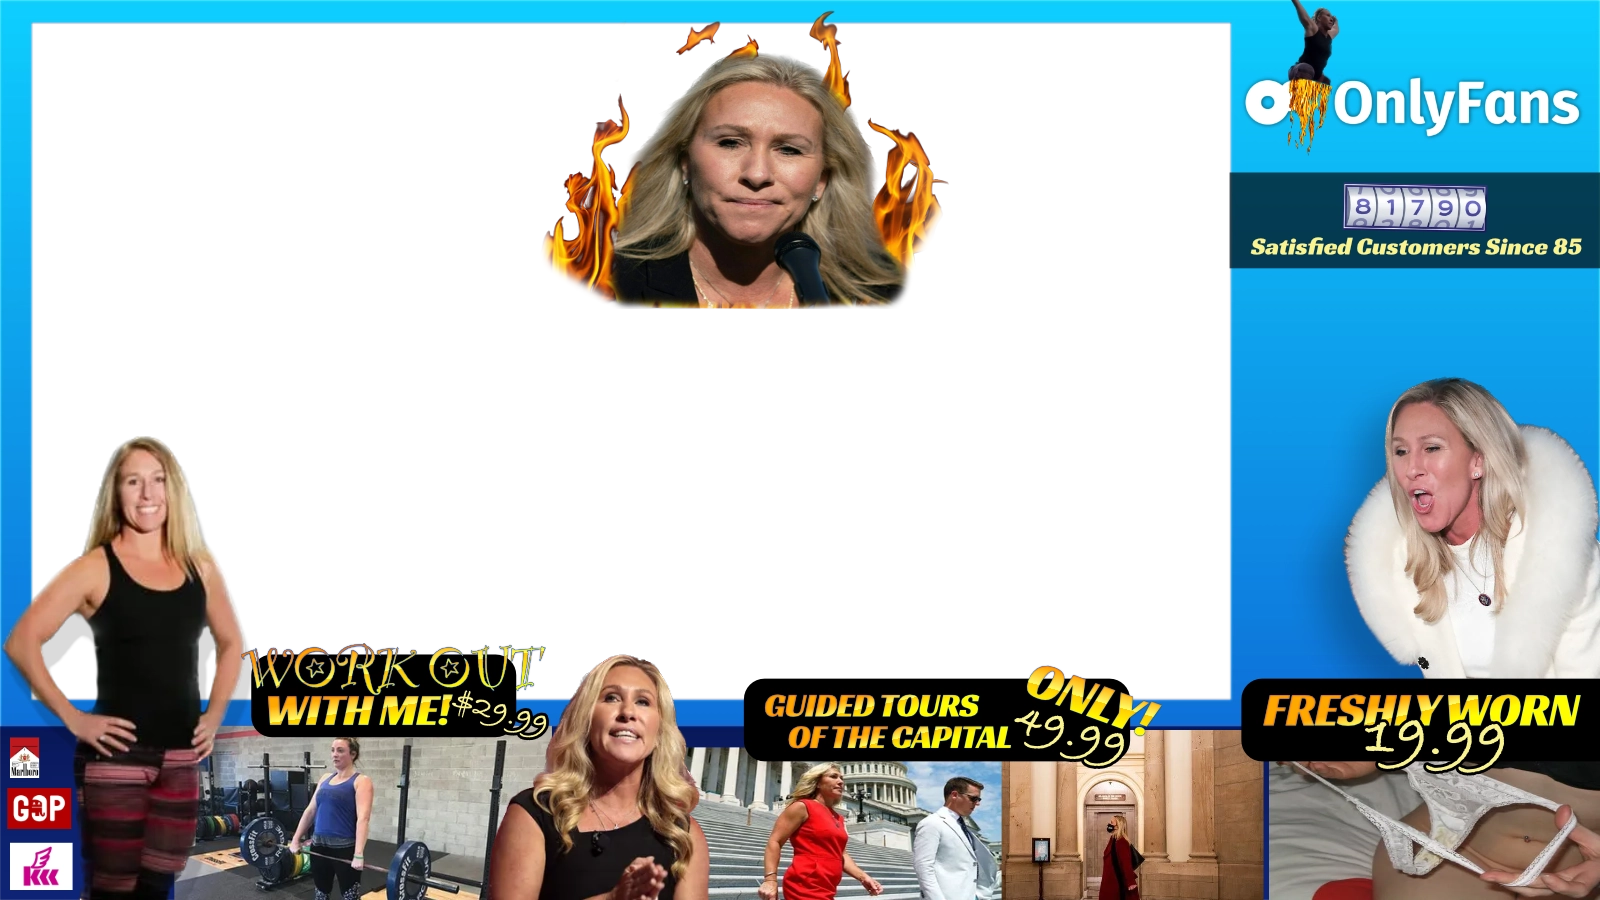
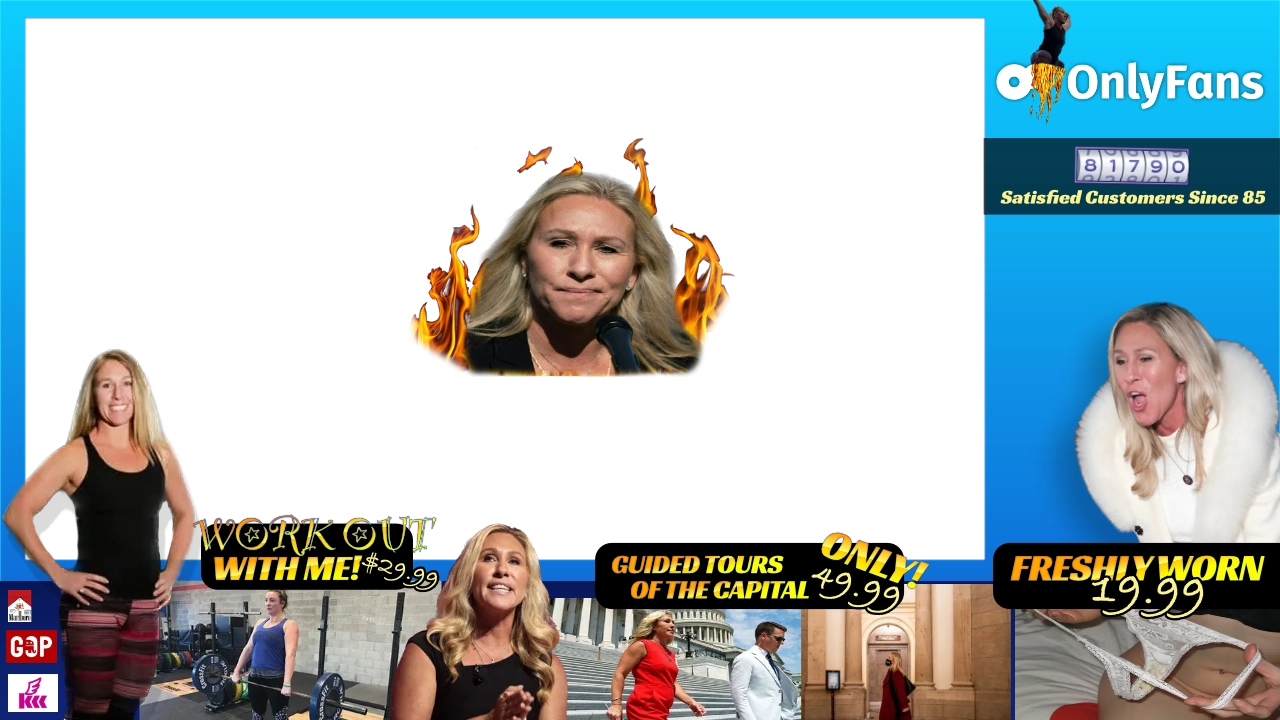
tweaks

diff --git a/src/templates/index-page.js b/src/templates/index-page.js
@@ -468,7 +468,7 @@ style={{position:'absolute', top:'0', zIndex:'0', width:'100vw', minHeight:'300p
     
       {/* <img className="homepage-bg" src={iconimage} width="250px" height="150px" alt="MemeGenes" style={{ width:'100%', maxWidth:'150px',maxHeight:'100px', margin:'80px auto 0 auto', filter:'drop-shadow(2px 2px 2px #000)', background:'transparent !important', position:'relative', top:''}} /> */}
 
-      <div className="panel" style={{position:'relative', right:'0', top:'10%', display:'flex', flexDirection:'column', justifyContent:'center', fontSize:'clamp(1.3rem, 2vw, 3rem)', background:'rgba(0,0,0,0.50)', textAlign:'center', padding:'2vh 5vw', borderRadius:'12px', maxWidth:'80vw' }}>
+      <div className="panel" style={{position:'relative', right:'0', top:'20vh', display:'flex', flexDirection:'column', justifyContent:'center', fontSize:'clamp(1.3rem, 2vw, 3rem)', background:'rgba(0,0,0,0.50)', textAlign:'center', padding:'2vh 5vw', borderRadius:'12px', maxWidth:'80vw' }}>
         Click to play
       
         <ImPlay style={{fontSize:'200%', margin:'0 auto'}} />

diff --git a/src/assets/scss/global.scss b/src/assets/scss/global.scss
@@ -57,7 +57,7 @@ margin:20vh !important;
 
 body.homepage .wrap-element iframe, body.blogpost .wrap-element iframe {
 	position: absolute;
-	top: -10px;
+	top: 0;
 	left: 0;
 	// height:280px !important;
 	width:100vw !important;
@@ -833,7 +833,6 @@ flex-direction: column;
 	}
 
 	 .spotlight:hover{
-		background:rgba(0, 0, 0, .6);
 		color:#fff !important;
 		fill:#fff !important;
 		backdrop-filter: none;

diff --git a/drafts/index.md b/drafts/index.md
@@ -1,0 +1,174 @@
+---
+slug: /
+tagline:  Memes are life
+featuredImage: /assets/twilight-promo.webp
+youtuber: "https://youtu.be/iHxmNzMfDj4"
+youtuber2: "https://youtu.be/QeWBS0JBNzQ"
+audiostart: "20"
+audioend: "5000"
+audiotitle: "Lady Gaga - The Edge Of Glory"
+underlayImage: /assets/swd-foreground.png
+profText: 
+ <div class="" style="text-align:left;">Memes are a way of life for many and this site is meant to be an outlet for that. This site was created to make it easy to post new memes and have somewhere to archive all of them.</div><br />
+  <p>Please enjoy(and share) the memes! <br /><br />Stay tuned for really big news about the platform that we're building and that we'll soon be offering to everyone. </p>
+addressText: ""
+portfolio:
+  openText: "Thank you for visiting, please swipe to view my portfolio"
+  closeText: Experience has taught me that good design is not created on a spur of
+    the moment, nor does it come naturally. Good design is a thorough and
+    interative process with site visitors in mind foremost. Good design is
+    identifying a problem for those visitors and removing that problem.
+youtubeautostart: true
+addressText2: ""
+skillsTitle: "Mad Skills Yo!"
+skillsText: 
+  <dl>
+  <dt>
+  <h2>Overall Skills</h2><div>100%</div>
+  </dt>
+  <dd class="percentage percentage-90"><span class="text">Front End</span> <span class="percent">90%</span></dd>
+  <dd class="percentage percentage-65"><span class="text">Back End</span> <span class="percent">65%</span></dd>
+  <dd class="percentage percentage-85"><span class="text">WordPress</span> <span class="percent">85%</span></dd>
+  <dd class="percentage percentage-75"><span class="text">Javascript</span> <span class="percent">75%</span></dd>
+  <dd class="percentage percentage-80"><span class="text">UI Design</span> <span class="percent">80%</span></dd>
+  <dd class="percentage percentage-85"><span class="text">UX Design</span> <span class="percent">85%</span></dd>
+  </dl>
+
+  <dl>
+  <dt>
+  <h2>Detailed Skills</h2><div>100%</div>
+  </dt>
+  <dd class="percentage percentage-90"><span class="text">HTML</span> <span class="percent">90%</span></dd>
+  <dd class="percentage percentage-85"><span class="text">CSS</span> <span class="percent">85%</span></dd>
+  <dd class="percentage percentage-75"><span class="text">Gatsby</span> <span class="percent">75%</span></dd>
+  <dd class="percentage percentage-65"><span class="text">React</span> <span class="percent">65%</span></dd>
+  </dl>
+cta:
+  ctaText: Contact Gene
+  ctaLink: ""
+svgImage: /assets/campfire.svg
+secondaryImage: /assets/default-user.webp
+title: Do these memes make my butt look fat?
+youtubeend: "9"
+sharethis: false
+youtubeloop: true
+youtubecontrols: false
+customcontrols: false
+clicktoplay: true
+liarliar: false
+bumpertext: ""
+template: index-page
+youtubemute: true
+description: A rogue one, out there to change the world, one meme at a time. 
+svgzindex: ""
+profTitle: Meme Genes
+coverletter:
+  coverText: About Meme Genes
+  coverLink: /about
+youtubestart: "0"
+scrollable: false
+contentinvideo: false
+nftdrop: "2023-02-11T10:00:00"
+youtubersuggestion1: https://youtu.be/8HqvE0rgLQY
+youtubersuggestion2: https://youtu.be/1kIihY252eE
+youtubersuggestion3: https://youtu.be/iHxmNzMfDj4
+---
+<!-- Do not delete -->
+
+<div>
+<!-- Do not delete -->
+
+## **Highlights**
+
+ **Product Designer - Skilled web designer/developer with 21 years of professional experience.**
+
+Successful product designer able to integrate both technical and creative skills to create cross-browser and cross-platform solutions with modern web architecture and navigation systems.
+
+Proven record of completing bold, clean, and effective designs with consistent performance ahead of schedule and under budget.
+
+Industry experience including semiconductor, hospitality, entertainment, health, publishing, finance, insurance, construction, computer software, and direct marketing.
+
+## **Proficiency**
+
+* Veteran WordPress Theme/Plugin Developer
+* React JS Frontend Designer/Developer
+
+Responsive, Reactive, Adaptive Design, progressive enhancement, PWA development, object oriented CSS animation.
+
+Analytics, SEO, UI design, Information Architecture & Content Management System integrations. Photo and Video production.
+
+**I prefer JAM stack, React, Gatsby, Canon, Subaru and my Mac.**
+
+## **Education**
+
+* Cal State University Fullerton
+Web Design and Development - Degree
+* Coastline Community College
+Quality Assurance - Degree
+* Golden West College
+Business Management - Degree
+* Huntington Beach High School
+High School General Courses - Diploma
+
+<!-- Do not delete -->
+
+</div>
+<div>
+<!-- Do not delete -->
+
+## **Experience**
+
+**Todd Lambert Enterprises, 1999 - Present**
+<br />Sole Proprietor / Photographer
+
+Conducted all facets of web development business including meeting with clients, selling web services, and developing methods for improved customer support. 
+I also like to travel all over the country and photograph spooky and abandoned places at night. View @ TwilightScapes.com
+
+**Primal Health, 2013 - 2014**
+<br />Creative Director / Associate Developer
+
+Responsible for all graphic components and direct marketing efforts. Worked with various departments to advance reach through social marketing, engineering and analytics. Also performed SEO and conducted extensive AB testing.
+
+**Texas Instruments, 2010 - 2013**
+<br />Style Architect / Front End Developer / Senior UI Designer
+
+Worked on all aspects of TIs website, from new ad campaigns and interactive widgets to the core infrastructure including a new re-design and replacement of site navigation site-wide. Championed responsive design techniques and other modern architecture for use on corporate site. Utilized Jquery animation for replacing all of TIs legacy Flash files.
+
+**AGJ Systems & Networks, 2008 - 2010**
+<br />Web Director / Lead Developer / Senior Designer
+
+Solely responsible for all design and development aspects of web department. Interacted with customers and other departments to integrate designs into modern websites catered to customer needs.
+
+**TeleVox Software, 2004 - 2007**
+<br />Director of Web Development
+
+Responsible for site architecture, design, graphics, programming, copywriting/editing, project management of all TeleVox websites and online marketing campaigns. Supervised 25 designers and developers.
+
+<!-- Do not delete -->
+
+</div>
+<!-- Do not delete -->
+
+<!-- RGT4V6JmINA MUSIC: CURE -->
+
+<!-- <dl>
+  <dt>
+  <h2>Overall Skills</h2><div>100%</div>
+  </dt>
+  <dd class="percentage percentage-90"><span class="text">Front End</span> <span class="percent">90%</span></dd>
+  <dd class="percentage percentage-65"><span class="text">Back End</span> <span class="percent">65%</span></dd>
+  <dd class="percentage percentage-85"><span class="text">WordPress</span> <span class="percent">85%</span></dd>
+  <dd class="percentage percentage-75"><span class="text">Javascript</span> <span class="percent">75%</span></dd>
+  <dd class="percentage percentage-80"><span class="text">UI Design</span> <span class="percent">80%</span></dd>
+  <dd class="percentage percentage-85"><span class="text">UX Design</span> <span class="percent">85%</span></dd>
+  </dl>
+
+  <dl>
+  <dt>
+  <h2>Detailed Skills</h2><div>100%</div>
+  </dt>
+  <dd class="percentage percentage-90"><span class="text">HTML</span> <span class="percent">90%</span></dd>
+  <dd class="percentage percentage-85"><span class="text">CSS</span> <span class="percent">85%</span></dd>
+  <dd class="percentage percentage-75"><span class="text">Gatsby</span> <span class="percent">75%</span></dd>
+  <dd class="percentage percentage-65"><span class="text">React</span> <span class="percent">65%</span></dd>
+</dl> -->

diff --git a/src/content/posts/large-marge.md b/src/content/posts/large-marge.md
@@ -248,12 +248,12 @@ Greene has repeatedly denied the scientific consensus on climate change, calling
 
 <li>
 
-## Opposition to LGBTQ+ Rights:
+## Opposes LGBTQ+ Rights:
 Greene has a history of opposing LGBTQ+ rights, including co-sponsoring a bill that would have prohibited same-sex marriage.</li>
 
 <li>
 
-## Lack of Legislative Accomplishments:
+## Lack of Accomplishments:
 Greene has not sponsored or co-sponsored any legislation that has become law during her time in office, despite being in office since January 2021.</li>
 
 <li>
